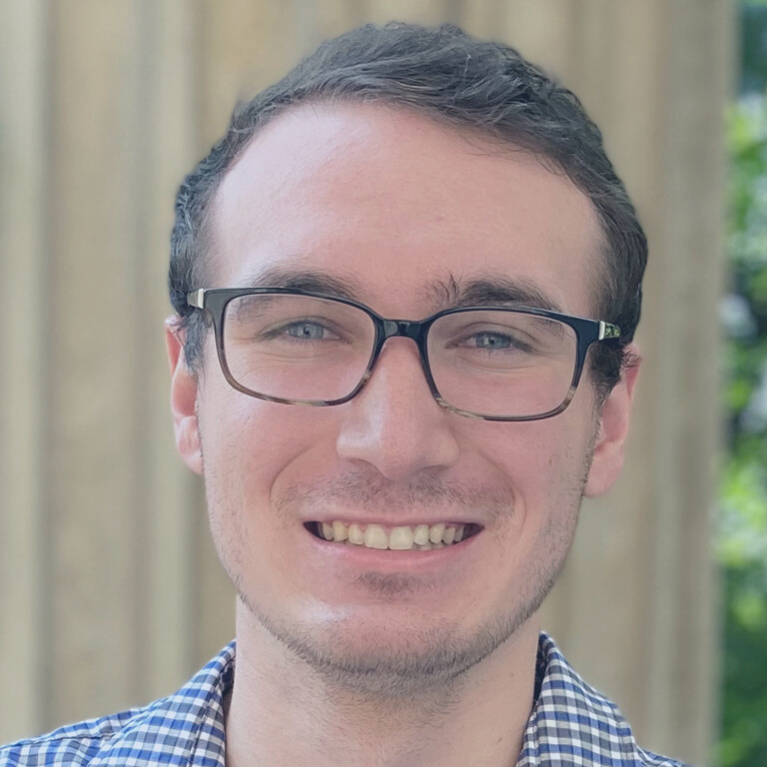
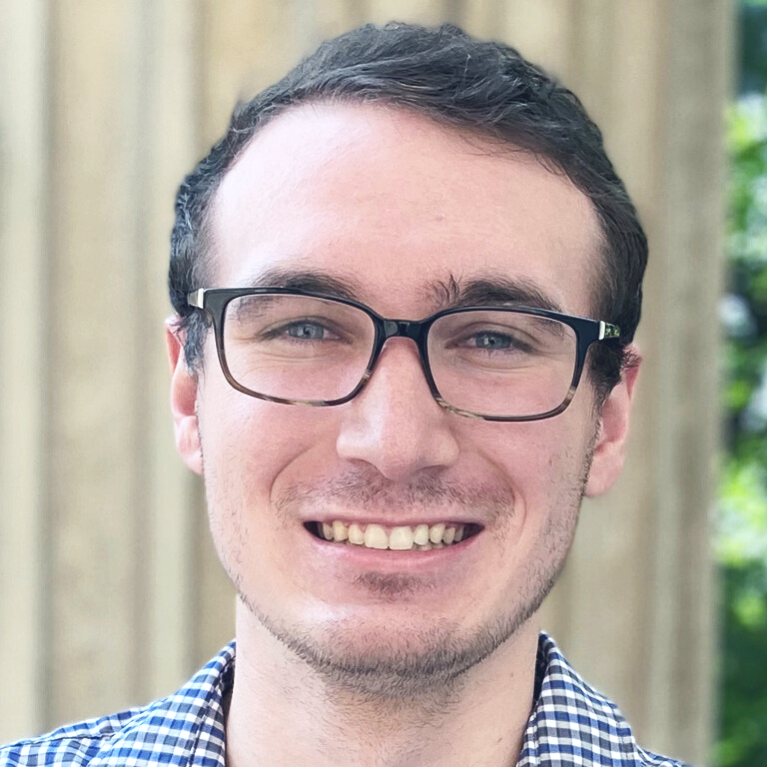
Changes to Image 1

diff --git a/index.html b/index.html
@@ -46,7 +46,7 @@
 						<!-- About -->
 							<article id="about">
 								<h2 class="major">About</h2>
-								<span class="image main"><img src="images/pic01.png" width="500" height="500" alt="" /></span>
+								<span class="image main"><img src="images/pic01.png" width="560" height="560" alt="" /></span>
 								<p>I am from Bartlesville, Oklahoma, and I am currently a PhD candidate in political science at the University of Iowa focusing on international relations and comparative politics. I graduated from Oklahoma State University in May 2020 with a BA in political science, as well as minors in Economics and Russian Language. I also hold an MA in political science (2021) from the University of Iowa.</p>
 								<p>My research centers around the role of natural resources in politics, particularly conflict, cooperation, and contentious politics. My work explores the effect that natural resources have on conflict onset and conflict management, especially in the maritime context, and how natural resources influence regime behavior and social mobilization at all levels of analysis.</p>
 								<p>As countries increasingly turn to the oceans for strategic and economic reasons, my three-paper dissertation titled “Maritime Zones of Contention: The Effect of Offshore Fossil-Fuel Resources on Maritime International Conflict and Cooperation” provides insight into how specific traits of offshore oil and natural gas influence maritime international relations. With most new oil and natural gas production occurring offshore in 2024, offshore fossil-fuel resources remain key sources of economic development and hot points for states when handling issues like maritime border delimitation. My dissertation examines when, where, and why offshore oil and natural gas cause states to engage in conflictual behavior versus cooperative behavior. I develop and test mechanisms for how specific conditions under which offshore oil and natural gas are exploited, managed, and traded influence maritime conflict dynamics. I also treat offshore oil and offshore natural gas as separate resources that have different effects on international relations.</p>
